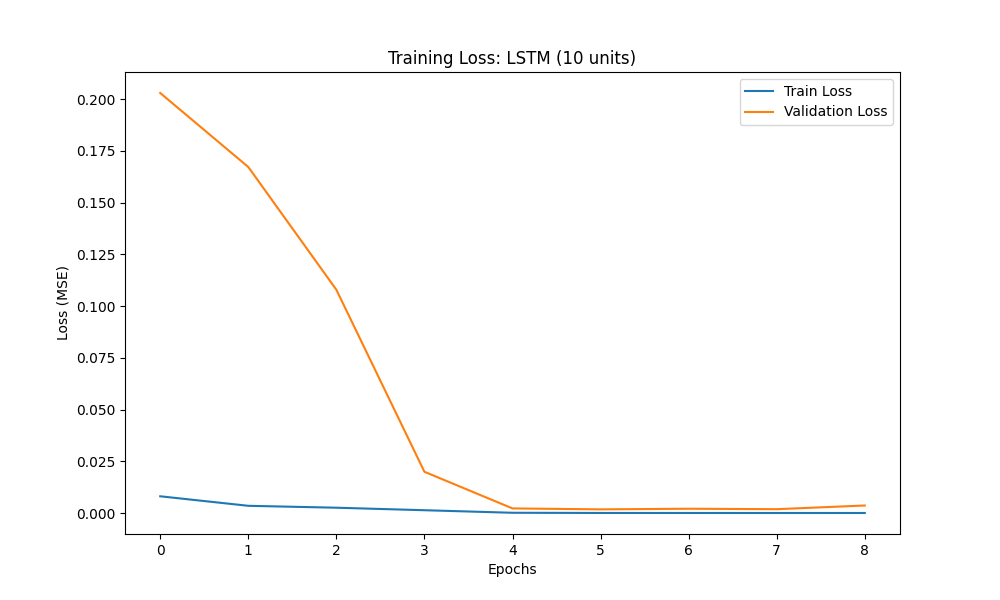
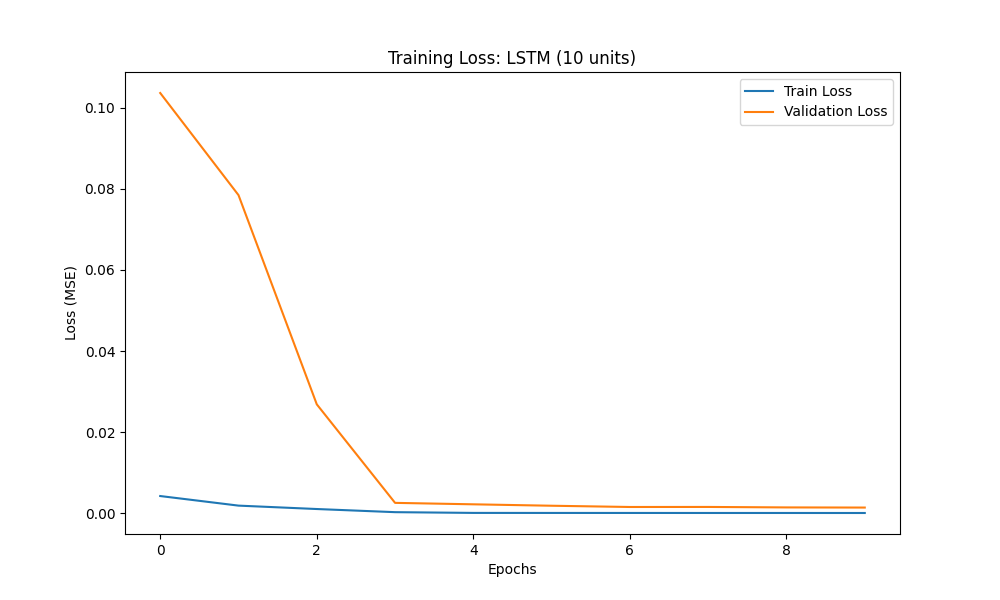
add  more experiment configurations and update readme

diff --git a/main.py b/main.py
@@ -58,6 +58,17 @@ def main():
         # --- Experiment Set 4: Optimizers (Fixed: 2 layers, 50 units) ---
         {'name': 'LSTM (SGD Optimizer)', 'units': 50, 'layers': 2, 'dropout': 0.0, 'optimizer': 'sgd'},
         # Adam is default, already used above.
+
+        # --- Experiment Set 5: Learning Rate (Fixed: 2 layers, 50 units, Adam) ---
+        {'name': 'LSTM (High LR 0.01)', 'units': 50, 'layers': 2, 'dropout': 0.0, 'optimizer': 'adam', 'learning_rate': 0.01},
+        {'name': 'LSTM (Low LR 0.0001)', 'units': 50, 'layers': 2, 'dropout': 0.0, 'optimizer': 'adam', 'learning_rate': 0.0001},
+
+        # --- Experiment Set 6: Batch Size (Fixed: 2 layers, 50 units, Adam) ---
+        {'name': 'LSTM (Batch Size 16)', 'units': 50, 'layers': 2, 'dropout': 0.0, 'optimizer': 'adam', 'batch_size': 16},
+        {'name': 'LSTM (Batch Size 64)', 'units': 50, 'layers': 2, 'dropout': 0.0, 'optimizer': 'adam', 'batch_size': 64},
+
+        # --- Experiment Set 7: Deep Network (3 Layers) ---
+        {'name': 'Deep LSTM (3 layers, 50 units)', 'units': 50, 'layers': 3, 'dropout': 0.0, 'optimizer': 'adam'},
     ]
 
     results = []
@@ -75,17 +86,20 @@ def main():
         print(f"\n--- Running Experiment: {exp['name']} ---")
         
         # Build Model
+        lr = exp.get('learning_rate', 0.001) # Default to 0.001 if not specified
         model = ModelBuilder.build_lstm_model(
             input_shape=input_shape,
             units=exp['units'],
             layers=exp['layers'],
             dropout=exp['dropout'],
+            learning_rate=lr,
             optimizer_name=exp['optimizer']
         )
         
         # Train
         # Increased epochs to 10 for better demonstration
-        history, training_time = trainer.train(model, X_train, y_train, epochs=10, batch_size=32)
+        batch_size = exp.get('batch_size', 32) # Default to 32 if not specified
+        history, training_time = trainer.train(model, X_train, y_train, epochs=10, batch_size=batch_size)
         
         # Plot Training History (Loss) for this experiment
         plt.figure(figsize=(10, 6))

diff --git a/README.md b/README.md
@@ -58,6 +58,7 @@ python main.py
 ## Configuration
 You can modify the experiments list in `main.py` to test different architectures. You can also adjust the `epochs` parameter in the training loop for longer training runs.
 
+
 ## Dependencies
 - tensorflow
 - pandas
